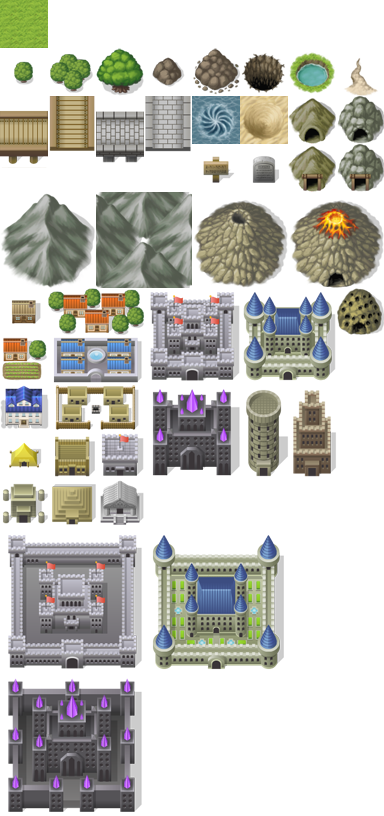
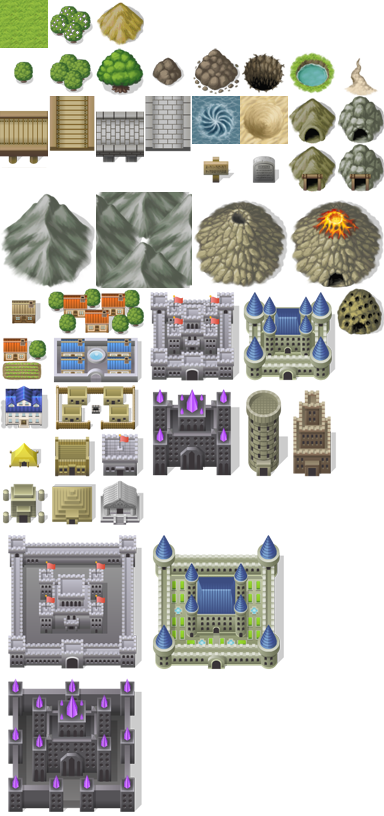
Clothes

Changed region(s): [[0.125, 0.0, 0.375, 0.0613]]

diff --git a/game.js b/game.js
@@ -18,6 +18,12 @@ const shikashiTileSet = loadImg("Shikashi");
 const pipoBuildingTileSet = loadImg("pipo-map001");
 const pipoGroundTileSet = loadImg("pipo-map001_at");
 
+function getShikashiTile(i, j) {
+    return new Sprite(shikashiTileSet, i * 32, j * 32, 32, 32);
+}
+function getPipoTile(i, j) {
+    return new Sprite(pipoBuildingTileSet, i * 48, j * 48);
+}
 class Sprite {
     constructor(tile, tx, ty, tWidth, tHeight) {
         this.tile = tile;
@@ -161,6 +167,10 @@ class Bot {
                 function say(msg) {
                     const duration = 1.5;
                     self.sayAndWait(msg, 'black', duration);
+                }));
+            interpreter.setProperty(globalObject, 'wait', interpreter.createNativeFunction(
+                function wait(duration) {
+                    self.sayAndWait(`waiting ${duration} sec`, 'black', duration);
                 }));
             interpreter.setProperty(globalObject, 'craft', interpreter.createNativeFunction(
                 function craft() {
@@ -363,11 +373,17 @@ class Item {
 }
 class Items {
     constructor() {
-        function getShikashiTile(i, j) {
-            return new Sprite(shikashiTileSet, i * 32, j * 32, 32, 32);
-        }
         this.water = new Item("Water", getShikashiTile(10, 0));
         this.apple = new Item("Apple", getShikashiTile(0, 14));
+        this.sand = new Item("Sand", getShikashiTile(11, 20));
+        this.flask = new Item("Flask", getShikashiTile(3, 19));
+        this.ironOre = new Item("IronOre", getShikashiTile(2, 17));
+        this.powder = new Item("Powder", getShikashiTile(2, 20));
+        this.ink = new Item("Ink", getShikashiTile(5, 19));
+        this.coton = new Item("Coton", getShikashiTile(5, 17));
+        this.spool = new Item("Spool", getShikashiTile(1, 22));
+        this.blueSpool = new Item("BlueSpool", getShikashiTile(2, 22));
+        this.cloth = new Item("Cloth", getShikashiTile(8, 7));
     }
 }
 const items = new Items();
@@ -424,13 +440,9 @@ class ItemStackTile {
     }
 }
 
-function getPipoTile(i, j) {
-    return new Sprite(pipoBuildingTileSet, i * 48, j * 48);
-}
+
 const greenGroundSprite = getPipoTile(0, 0);
 
-const mineSprite = getPipoTile(7, 3);
-const smallHouseSprite = getPipoTile(0, 6);
 const farmSprite = getPipoTile(0, 7);
 
 class Recipe {
@@ -480,11 +492,17 @@ class BuildingTile {
 class TileFactory {
     createBuildingTiles() {
         return [
-            new BuildingTile("house", { i: 1, j: 4 }, smallHouseSprite),
-            new BuildingTile("mine", { i: 0, j: 0 }, mineSprite),
             this.createAppleTree(),
-            new BuildingTile("farm", { i: 1, j: 8 }, farmSprite),
             this.createWaterWell(),
+            this.createDune(),
+            this.createCotonField(),
+            this.createClothFactory(),
+            this.createFire(),
+            this.createMine(),
+            this.createAnvil(),
+            this.createLoom(),
+            this.createMortar(),
+            this.createCauldron(),
         ];
     }
     createWaterWell() {
@@ -497,6 +515,67 @@ class TileFactory {
         const sprite = getPipoTile(2, 1);
         const recipe = new Recipe(items.apple, 1.5, [{ item: items.water, count: 1 }]);
         const tile = new BuildingTile("tree", { i: 2, j: 0 }, sprite, recipe);
+        return tile;
+    }
+    createDune() {
+        const sprite = getPipoTile(2, 0);
+        const recipe = new Recipe(items.sand, 0.3, []);
+        const tile = new BuildingTile("dune", { i: 15, j: 0 }, sprite, recipe);
+        return tile;
+    }
+    createCotonField() {
+        const sprite = getPipoTile(1, 0);
+        const recipe = new Recipe(items.coton, 1.5, [{ item: items.water, count: 1 }]);
+        const tile = new BuildingTile("cotonField", { i: 0, j: 8 }, sprite, recipe);
+        return tile;
+    }
+    createClothFactory() {
+        const sprite = getPipoTile(0, 6);
+        const recipe = new Recipe(items.cloth, 3, [
+            { item: items.blueSpool, count: 4 },
+            { item: items.spool, count: 1 }]);
+        const tile = new BuildingTile("clothFactory", { i: 9, j: 5 }, sprite, recipe);
+        return tile;
+    }
+    createFire() {
+        const sprite = getShikashiTile(2, 4);
+        const recipe = new Recipe(items.flask, 2, [{ item: items.sand, count: 1 }]);
+        const tile = new BuildingTile("fire", { i: 14, j: 4 }, sprite, recipe);
+        return tile;
+    }
+    createMine() {
+        const sprite = getPipoTile(7, 3);
+        const recipe = new Recipe(items.ironOre, 1.7, []);
+        const tile = new BuildingTile("mine", { i: 8, j: 0 }, sprite, recipe);
+        return tile;
+    }
+    createAnvil(){
+        const sprite = getShikashiTile(4, 4);
+        const recipe = new Recipe(items.powder, 1, [{ item: items.ironOre, count: 1 }]);
+        const tile = new BuildingTile("anvil", { i: 9, j: 2 }, sprite, recipe);
+        return tile;
+    }
+    createLoom(){
+        const sprite = getShikashiTile(11, 16);
+        const recipe = new Recipe(items.spool, 1, [{ item: items.coton, count: 2 }]);
+        const tile = new BuildingTile("loom", { i: 3, j: 7 }, sprite, recipe);
+        return tile;
+    }
+    createMortar(){
+        const sprite = getShikashiTile(12, 11);
+        const recipe = new Recipe(items.ink, 1, [
+            { item: items.powder, count: 1 },
+            { item: items.water, count: 1 },
+            { item: items.flask, count: 1 }]);
+        const tile = new BuildingTile("mortar", { i: 11, j: 3 }, sprite, recipe);
+        return tile;
+    }
+    createCauldron(){
+        const sprite = getShikashiTile(9, 19);
+        const recipe = new Recipe(items.blueSpool, 1, [
+            { item: items.spool, count: 1 },
+            { item: items.ink, count: 1 }]);
+        const tile = new BuildingTile("cauldron", { i: 6, j: 8 }, sprite, recipe);
         return tile;
     }
 }
@@ -704,10 +783,17 @@ class Map {
     }
 }
 let map = new Map();
-map.addItemOnGround({ i: 0, j: 3 }, items.water);
-map.addItemOnGround({ i: 0, j: 3 }, items.water);
-map.addItemOnGround({ i: 2, j: 0 }, items.apple);
-map.addItemOnGround({ i: 2, j: 0 }, items.water);
+map.addItemOnGround({ i: 0, j: 5 }, items.water);
+map.addItemOnGround({ i: 0, j: 5 }, items.apple);
+map.addItemOnGround({ i: 0, j: 5 }, items.sand);
+map.addItemOnGround({ i: 0, j: 5 }, items.flask);
+map.addItemOnGround({ i: 0, j: 5 }, items.ink);
+map.addItemOnGround({ i: 0, j: 5 }, items.ironOre);
+map.addItemOnGround({ i: 0, j: 5 }, items.coton);
+map.addItemOnGround({ i: 0, j: 5 }, items.spool);
+map.addItemOnGround({ i: 0, j: 5 }, items.blueSpool);
+map.addItemOnGround({ i: 0, j: 5 }, items.cloth);
+
 
 let selectedBot = bots[0];
 function runCode(applyAll) {

diff --git a/index.html b/index.html
@@ -35,7 +35,7 @@ while(true){
             <!--<button onclick="stepButton()" id="stepButton" disabled="disabled">Step</button>
     <button onclick="clear()">Clear</button>-->
         </div>
-        <div>
+        <div>           
 Sample of code:
             <code><pre>
 var newName = "Bot" + getId();
@@ -47,6 +47,7 @@ switch(getId()){
 setName(newName);
 moveTo((getId() - 1) % 16, 8);
 say("Hello, I'm " + getName());
+wait(getId());
 while(true){ 
     moveTo("well");
     craft();
